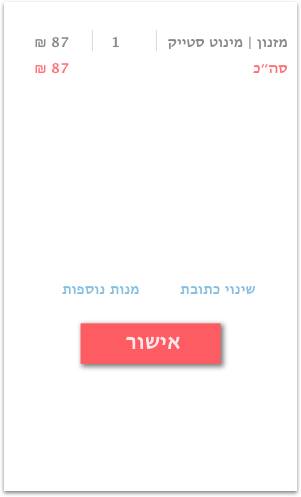
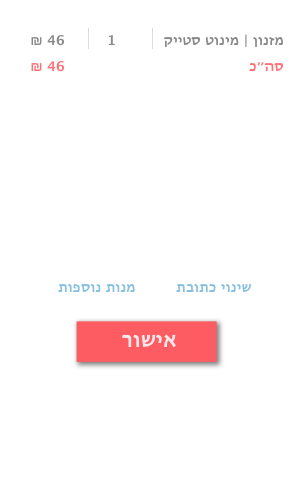
live cards

diff --git a/css/style.css b/css/style.css
@@ -11,13 +11,12 @@
               perspective: 800px;
     }
 
-    .card {
+    .card_container {
       width: 75vw;
-      height: 100%;
+      height: 515.47px;
         margin-right:4vw;
         margin-left:4vw;
     float:left;
-        
      transition-property: transform;
             transition-duration: 0.5s;
             transition-timing-function: ease-out;
@@ -32,24 +31,17 @@
               transform-style: preserve-3d;
     }
 
-    .card.flipped {
+    .card_container.flipped {
       -webkit-transform: rotateY( 180deg );
          -moz-transform: rotateY( 180deg );
            -o-transform: rotateY( 180deg );
               transform: rotateY( 180deg );
     }
     .first_card {
-        margin-left:12.5vw;
+        margin-left:14.5vw;
     }
-    .card img {
+    .card_container .back {
       display: block;
-      height: 100%;
-      width: 100%;
-      line-height: 260px;
-      color: white;
-      text-align: center;
-      font-weight: bold;
-      font-size: 140px;
       position: absolute;
       -webkit-backface-visibility: hidden;
          -moz-backface-visibility: hidden;
@@ -57,15 +49,108 @@
               backface-visibility: hidden;
     }
 
-    #taizu .front {
+    .card_container div {
+      -webkit-backface-visibility: hidden;
+         -moz-backface-visibility: hidden;
+           -o-backface-visibility: hidden;
+              backface-visibility: hidden;
     }
 
-    .card .back {
+    .card_container div.card_bottom {
+        display: block;
+        background-color:white;
+        width:100%;
+        height:145.47px;
+        line-height: 260px;
+        color: white;
+        text-align: center;
+        font-weight: bold;
+        position: relative;
+    }
+
+    .front {
+        box-shadow: 0 27px 55px 0 rgba(0, 0, 0, 0.3), 0 17px 17px 0 rgba(0, 0, 0, 0.15);
+        position:absolute;
+      -webkit-transform: rotateY( 0deg );
+         -moz-transform: rotateY( 0deg );
+           -o-transform: rotateY( 0deg );
+              transform: rotateY( 0deg );
+    }
+
+
+    .card_bottom button{
+            background-color: rgb(253,92,99);
+        border: none;
+        box-shadow: 0 3px 3px 0 rgba(0,0,0,0.14), 0 1px 7px 0 rgba(0,0,0,0.12), 0 3px 1px -1px rgba(0,0,0,0.2);
+        font-size: 20px;
+        font-family: lucida grande;
+        cursor: pointer;
+        color: white;
+        width: 147.56px;
+        height: 39.31px;
+        padding: 0px;
+        margin-top: 0;
+        position: absolute;
+        top: 52px;
+        right: 72.725px;
+    }
+
+    .card_bottom img{
+        height: 35.8360px;
+        width: 35.8360px;
+        top: -14px;
+        left: 128.085px;
+        position: absolute;
+
+    }
+
+    .card_bottom p.price{
+        line-height: 0px;
+        position: absolute;
+        width: 60px;
+        height: 40px;
+        text-align: left;
+        color: rgb(253,92,99);
+        top: 0px;
+        padding-left: 15px;
+        font-size:20px;
+    }
+
+    .card_bottom p.name{
+        line-height: 0px;
+        position: absolute;
+        width: 150px;
+        height: 40px;
+        text-align: right;
+        color: rgba(51,51,51,0.87);
+        right: 0px;
+        top:0px;
+        padding-right: 15px;
+    }
+
+    .card_bottom p.name span.dish{
+        font-weight: bold;
+        display: block;
+        text-align: right;
+        position:relative;
+        font-size:20px;
+    }
+    .card_bottom p.name span.restaurant{
+        top: 17px;
+        position: relative;
+        font-size: 15px;
+        font-weight: normal;
+
+    }
+
+    .card_container .back {
+        box-shadow: 0 27px 55px 0 rgba(0, 0, 0, 0.3), 0 17px 17px 0 rgba(0, 0, 0, 0.15);
       -webkit-transform: rotateY( 180deg );
          -moz-transform: rotateY( 180deg );
            -o-transform: rotateY( 180deg );
               transform: rotateY( 180deg );
     }
+
 
 
 
@@ -118,7 +203,6 @@ button {
 }
 
 footer {
-  border-top: 1px solid #CCC;
   font-size: 0.8em;
   position: relative;
   z-index: 100;

diff --git a/index.html b/index.html
@@ -30,29 +30,65 @@
     </header>
     <h1>Card 1</h1>
     <div id="content">
-        <div id="taizu" class="card first_card">
-            <img src="images/card_taizu.png" class="front">
+        <div id="taizu" class="card_container first_card">
+            <div class="front">
+                <img src="images/taizu_img.png">
+                <div class="card_bottom">
+                    <img src="images/expand.png" class="expand">
+                    <p class="price">₪ 92</p>
+                    <p class="name">
+                        <span class="dish">באטר צ׳יקן</span>
+                        <span class="restaurant">טאיזו</span>
+                    </p>
+                    <button class="order_btn">הזמן</button>
+                </div>
+            </div>
             <img src="images/card_taizu_back.png" class="back">
         </div>
-        <div id="vitrina" class="card">
-            <img src="images/card_vitrina.png" class="front">
-            <img src="images/card_vitrina_back.png" class="back">
-        </div>
-        <div id="miznon" class="card">
-            <img src="images/card_miznon.png" class="front">
-            <img src="images/card_miznon_back.png" class="back">
-        </div>
-        <div id="taizu" class="card">
-            <img src="images/card_taizu.png" class="front">
+        <div id="vitrina" class="card_container">
+            <div class="front">
+                <img src="images/vitring_img.png">
+                <div class="card_bottom">
+                    <img src="images/expand.png" class="expand">
+                    <p class="price">₪ 69</p>
+                    <p class="name">
+                        <span class="dish">המבורגר</span>
+                        <span class="restaurant">ויטרינה</span>
+                    </p>
+                    <button class="order_btn">הזמן</button>
+                </div>
+            </div>
             <img src="images/card_taizu_back.png" class="back">
         </div>
-        <div id="vitrina" class="card">
-            <img src="images/card_vitrina.png" class="front">
-            <img src="images/card_vitrina_back.png" class="back">
+        <div id="miznon" class="card_container">
+            <div class="front">
+                <img src="images/miznon_img.png">
+                <div class="card_bottom">
+                    <img src="images/expand.png" class="expand">
+                    <p class="price">₪ 46</p>
+                    <p class="name">
+                        <span class="dish">מינוט סטייק</span>
+                        <span class="restaurant">המזנון</span>
+                    </p>
+                    <button class="order_btn">הזמן</button>
+                </div>
+            </div>
+            <img src="images/card_taizu_back.png" class="back">
         </div>
-        <div id="miznon" class="card">
-            <img src="images/card_miznon.png" class="front">
-            <img src="images/card_miznon_back.png" class="back">
+        <div id="noar" class="card_container">
+            <div class="front">
+                <img src="images/noar_img.png">
+                <div class="card_bottom">
+                    <img src="images/expand.png" class="expand">
+                    <p class="price">₪ 72</p>
+                    <p class="name">
+                        <span class="dish">שניצל עוף</span>
+                        <span class="restaurant">קפה נואר</span>
+                    </p>
+                    <button class="order_btn">הזמן</button>
+                </div>
+            </div>
+            <img src="images/card_taizu_back.png" class="back">
         </div>
     </div>
 

diff --git a/js/flip-card.js b/js/flip-card.js
@@ -1,10 +1,10 @@
 var init = function() {
-    var card = document.getElementsByClassName("card");  
-    
-    for (i=0;i < card.length;i++){
-        card[i].addEventListener( 'click', function(){
-            this.toggleClassName('flipped');
-        }, false);
+    var order_btn = $('.order_btn');  
+    console.log(order_btn);
+    for (i=0;i < order_btn.length;i++){
+        $(order_btn[i]).click(function (evt) {
+            $(evt.target).parent().parent().parent().toggleClass('flipped');
+        });
     }
     
     
